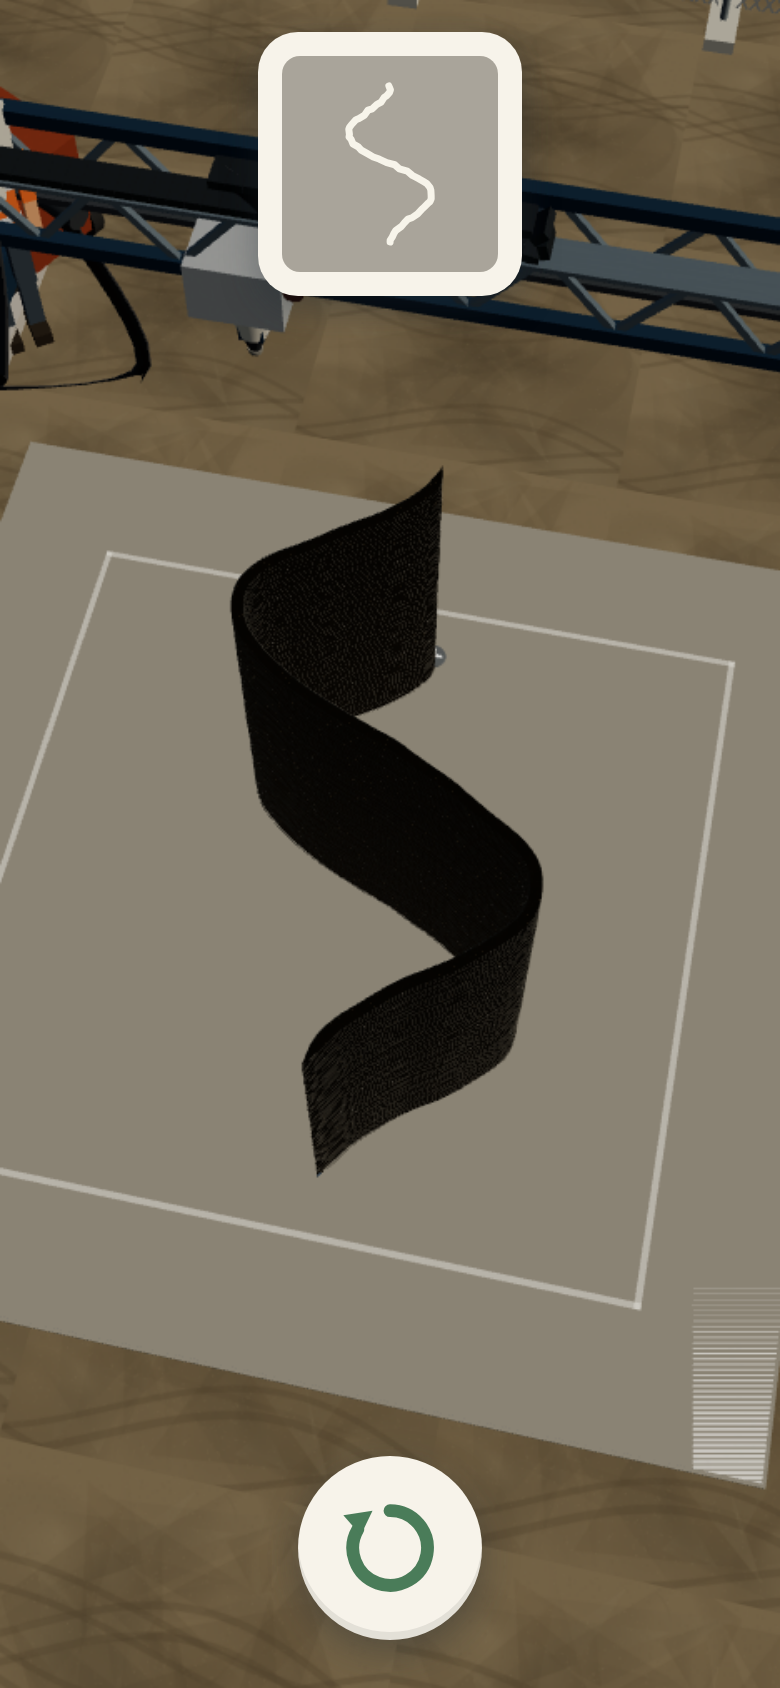
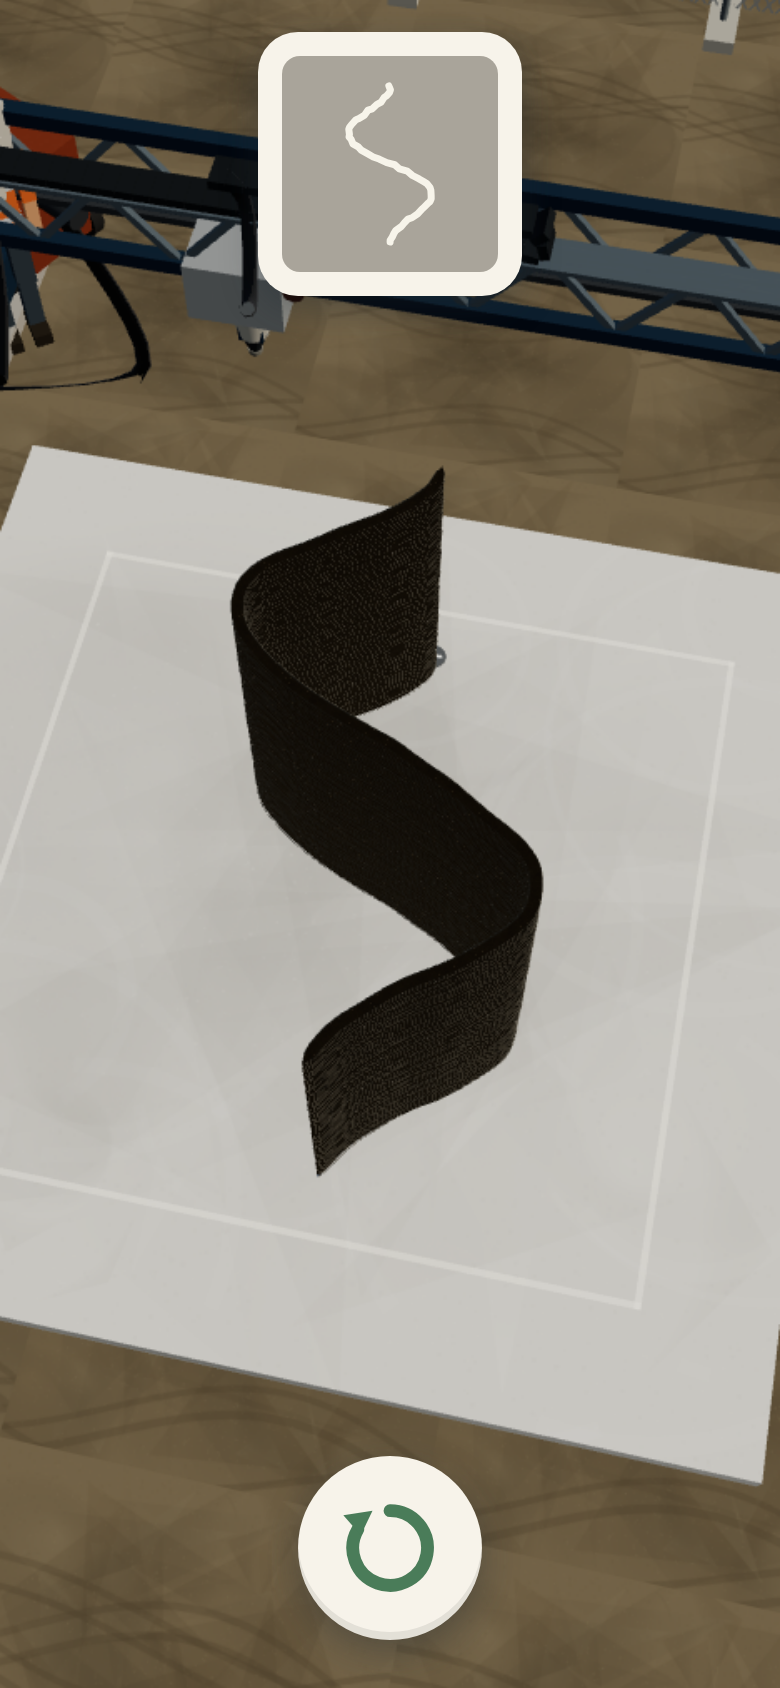
デバッグ用フック追加（ビードリング実寸ダンプ）
Claude-Session: https://claude.ai/code/session_01YM9BXMVKQkXAStQHo3jTsD

diff --git a/src/geometry/bead.ts b/src/geometry/bead.ts
@@ -284,6 +284,27 @@ export class BeadBuilder {
   }
 
   get bakedCount(): number { return this.bakedMeshes.length; }
+
+  /** デバッグ: 末尾リング数個の実寸（幅・高さ・下端） */
+  debugExtents(count = 5): { rings: number; extents: { w: number; h: number; y0: number; y1: number }[] } {
+    const out: { w: number; h: number; y0: number; y1: number }[] = [];
+    const n = Math.min(count, this.ringCount);
+    for (let k = this.ringCount - n; k < this.ringCount; k++) {
+      let minY = 1e9, maxY = -1e9, minX = 1e9, maxX = -1e9, minZ = 1e9, maxZ = -1e9;
+      for (let i = 0; i < NP; i++) {
+        const o = (k * NP + i) * 3;
+        minX = Math.min(minX, this.aPos[o]); maxX = Math.max(maxX, this.aPos[o]);
+        minY = Math.min(minY, this.aPos[o + 1]); maxY = Math.max(maxY, this.aPos[o + 1]);
+        minZ = Math.min(minZ, this.aPos[o + 2]); maxZ = Math.max(maxZ, this.aPos[o + 2]);
+      }
+      out.push({
+        w: Math.hypot(maxX - minX, maxZ - minZ),
+        h: maxY - minY,
+        y0: minY, y1: maxY,
+      });
+    }
+    return { rings: this.ringCount, extents: out };
+  }
 }
 
 function fract(v: number): number { return v - Math.floor(v); }

diff --git a/src/game.ts b/src/game.ts
@@ -297,6 +297,9 @@ export class Game {
       baked: this.builder.bakedCount,
     };
   }
+  getDebug(): unknown {
+    return this.builder.debugExtents();
+  }
   async testStroke(pts: [number, number][], durMs = 1600): Promise<void> {
     if (this.phase !== 'draw') return;
     await this.stroke.simulateStroke(pts, durMs);

diff --git a/src/main.ts b/src/main.ts
@@ -96,6 +96,7 @@ function boot(): void {
     timeScale: (v: number) => game.setTimeScale(v),
     reset: () => game.reset(),
   };
+  (window as unknown as Record<string, unknown>).__oscDebug = () => game.getDebug();
 }
 
 boot();
